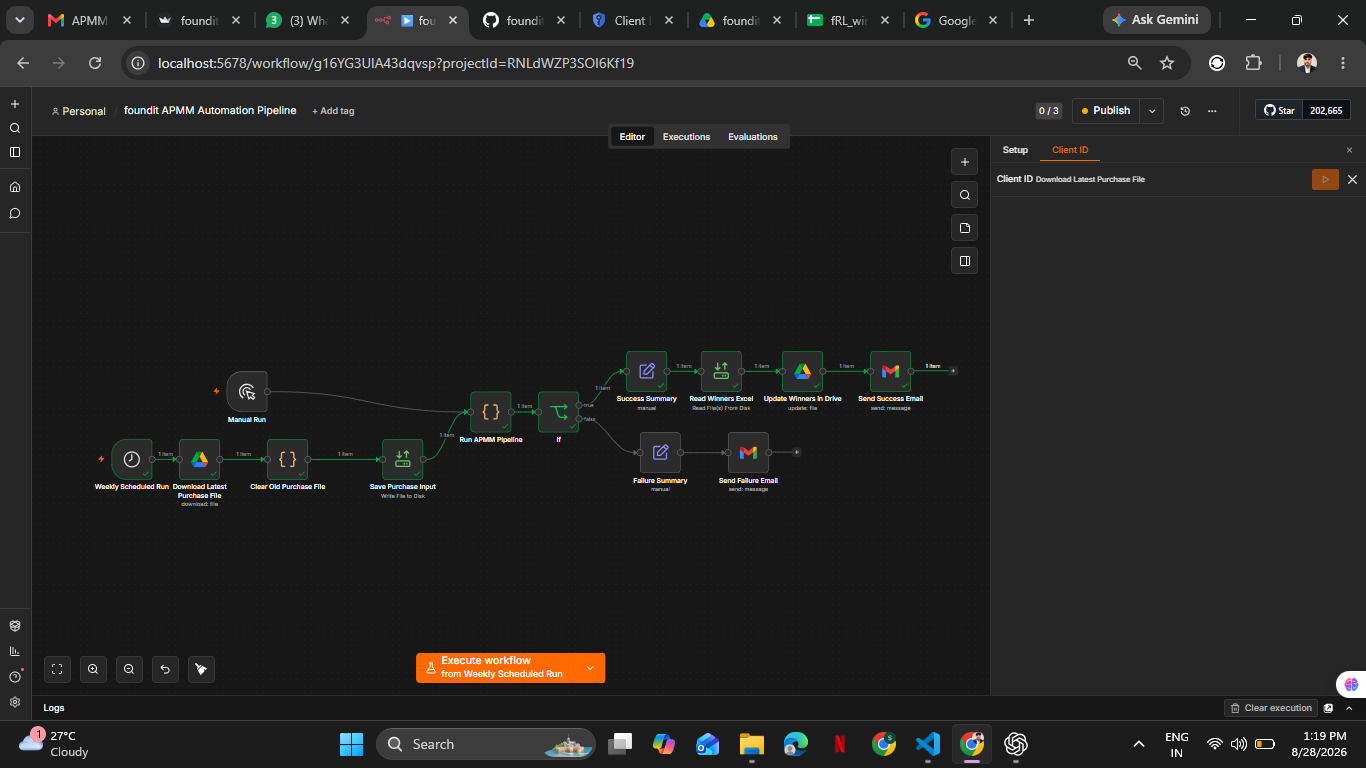
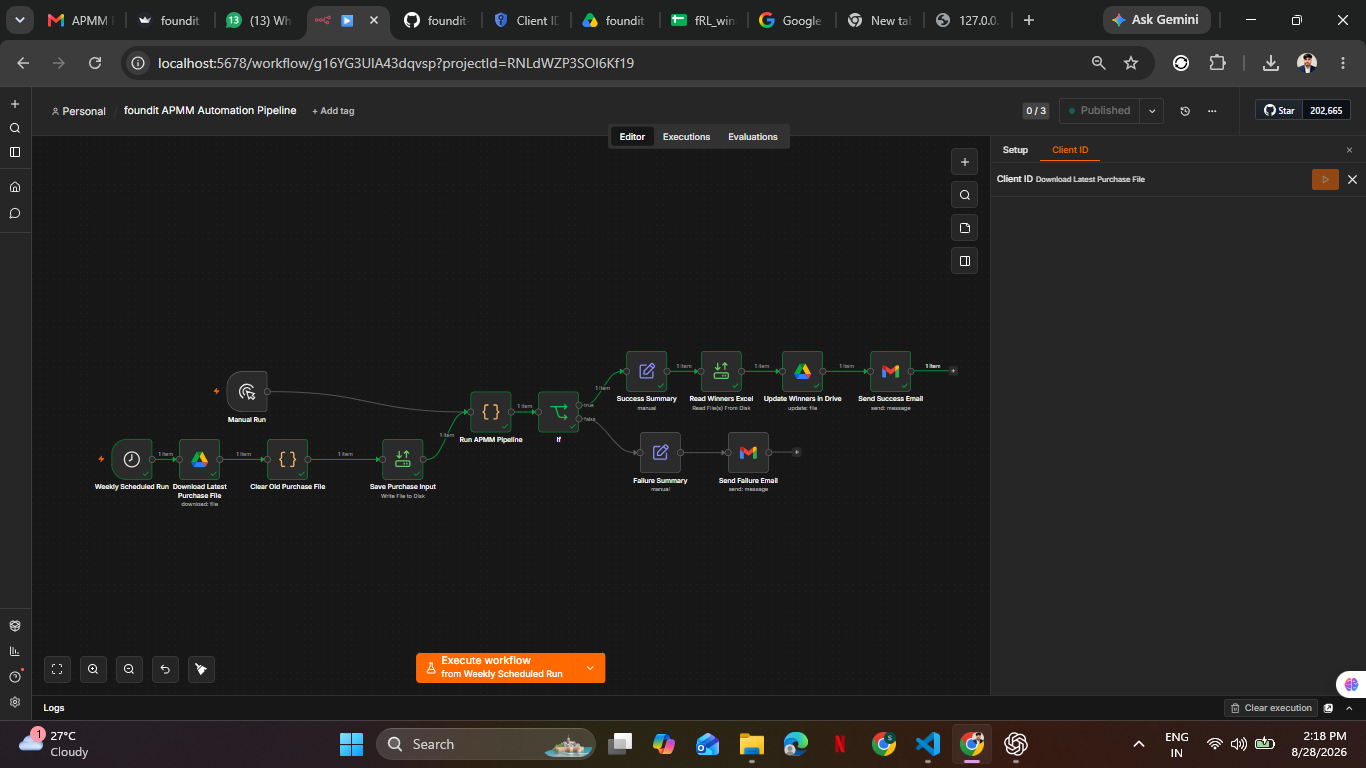
Add published n8n workflow evidence

diff --git a/README.md b/README.md
@@ -21,7 +21,7 @@ This project was built for the foundit APMM AI & Automation take-home assignment
 | Task 2 fRL calculation | Complete | Validated Excel output and short method note |
 | Bonus `winner.py` analysis | Complete | Plain-English analysis and business insights in `notes/task3_bonus_analysis.md` |
 | Python automation | Complete | `python run_pipeline.py` validates inputs, runs both tasks, and checks deliverables |
-| n8n local orchestration | Complete | Manual and weekly-trigger test runs, Drive input/output, success/failure routing, and Gmail notifications |
+| n8n local orchestration | Published and validated | Latest local workflow version includes manual and weekly triggers, Drive input/output, success/failure routing, and Gmail notifications |
 | Professional email templates | Included in export | Success and failure Gmail nodes use structured plain-text messages; live credentials remain local to n8n |
 | Public Streamlit demo | Live | Accessible through the link above |
 | Public n8n editor/runtime | Not deployed | The validated workflow currently runs on a local Windows n8n instance; see [Making n8n Public Safely](#making-n8n-public-safely) |
@@ -665,7 +665,7 @@ The command checks required inputs, regenerates the fRL output, runs the Task 1 
 
 | Evidence | File |
 |---|---|
-| Weekly scheduled end-to-end success route | `screenshots/n8n_full_workflow_success.png` |
+| Published weekly scheduled end-to-end success route | `screenshots/n8n_full_workflow_success.png` |
 | Manual success route | `screenshots/n8n_manual_success_route.png` |
 | Controlled failure route and failure-email node | `screenshots/n8n_failure_route_and_email.png` |
 | Weekly schedule configuration | `screenshots/n8n_weekly_schedule_settings.png` |
